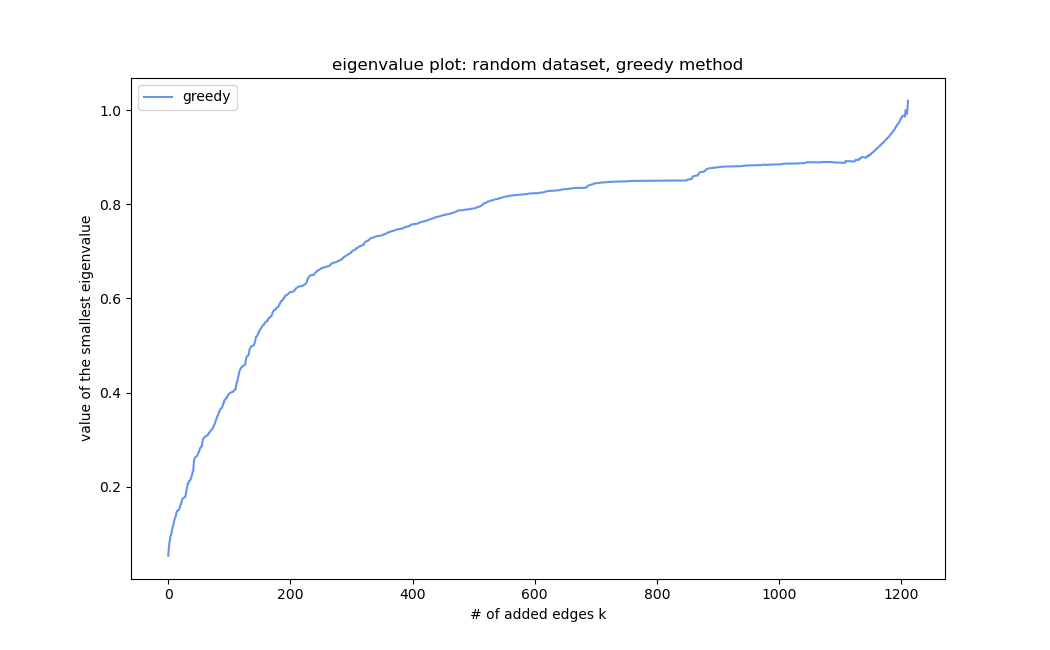
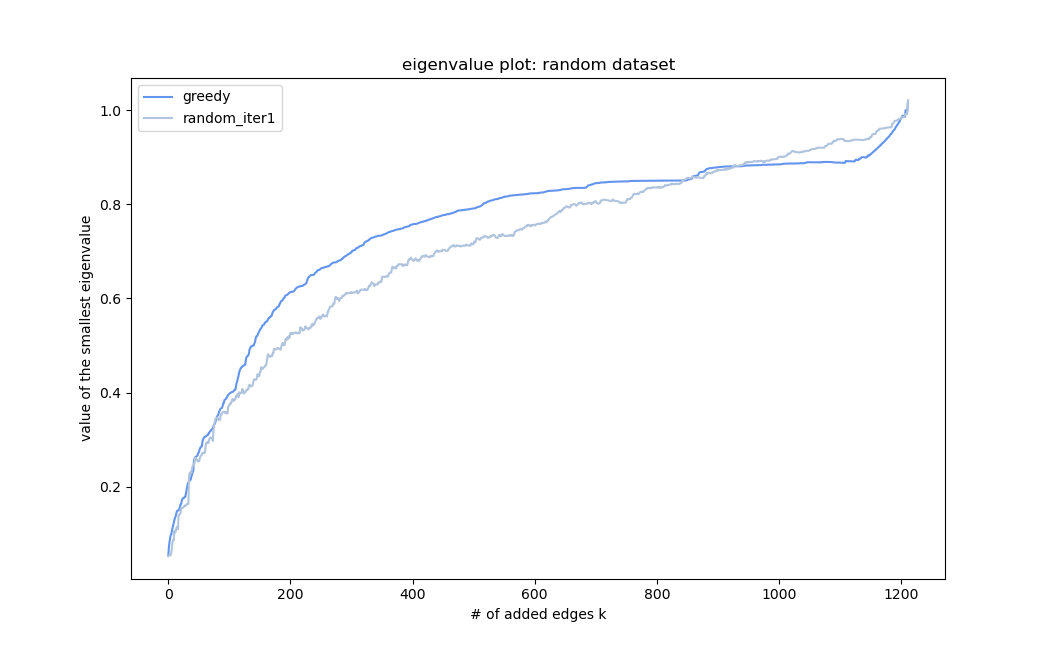
Update result analysis

diff --git a/first-eigen-k-edge/result_analysis.py b/first-eigen-k-edge/result_analysis.py
@@ -5,43 +5,86 @@ import argparse
 from pathlib import Path
 import matplotlib.pyplot as plt
 
+
 module_dur = os.getcwd()
 sys.path.append(module_dur)
 path = Path(module_dur)
 module_path = str(path.parent.absolute())
 sys.path.append(module_path)
 
+
+def result_analysis(args, itr_name=None):
+    if not args.data:
+        output_folder = module_path + '/output/testing'
+    else:
+        output_folder = module_path + '/output/' + args.data
+
+    if not args.method:
+        potential_edge_file = output_folder + '/potential_edges.pkl'
+        spectrum_file_greedy = output_folder + f'/greedy_eigen_val_sequence.pkl'
+        spectrum_file_random = output_folder + f'/random_eigen_val_sequence_{itr_name}.pkl'
+
+        with open(potential_edge_file, 'rb') as f:
+            unused_edges = pickle.load(f)
+
+        with open(spectrum_file_greedy, 'rb') as f:
+            spectrum_greedy = pickle.load(f)
+
+        with open(spectrum_file_random, 'rb') as f:
+            spectrum_random = pickle.load(f)
+
+        k = len(unused_edges)
+        k_value = range(k + 1)
+
+        plt.figure(figsize=(10.5, 6.5))
+        plt.plot(k_value, spectrum_greedy, label=f'greedy', color='cornflowerblue')
+        plt.plot(k_value, spectrum_random, label=f'random_{itr_name}', color='lightsteelblue')
+
+        plt.xlabel("# of added edges k")
+        plt.ylabel("value of the smallest eigenvalue")
+        plt.title(f"eigenvalue plot: {args.data} dataset")
+        plt.legend()
+
+        plt.savefig(output_folder + f'/result_analysis.png')
+        plt.show()
+
+    else:
+        potential_edge_file = output_folder + '/potential_edges.pkl'
+        spectrum_file = output_folder + f'/{args.method}_eigen_val_sequence.pkl'
+
+        if args.method == 'random':
+            spectrum_file = output_folder + f'/{args.method}_eigen_val_sequence_{itr_name}.pkl'
+
+        with open(potential_edge_file, 'rb') as f:
+            unused_edges = pickle.load(f)
+
+        with open(spectrum_file, 'rb') as f:
+            result_spectrum = pickle.load(f)
+
+        k = len(unused_edges)
+        k_value = range(k + 1)
+
+        plt.figure(figsize=(10.5, 6.5))
+        plt.plot(k_value, result_spectrum, label=args.method, color='cornflowerblue')
+
+        plt.xlabel("# of added edges k")
+        plt.ylabel("value of the smallest eigenvalue")
+        plt.title(f"eigenvalue plot: {args.data} dataset, {args.method} method")
+        plt.legend()
+
+        plt.savefig(output_folder + f'/{args.method}_result_analysis.png')
+        plt.show()
+
+
 parser = argparse.ArgumentParser(description='Process...')
 parser.add_argument('--data', type=str, help='graph dataset name')
 parser.add_argument('--method', type=str, help='algorithm used')
-args = parser.parse_args()
+arguments = parser.parse_args()
 
-
-if not args.data:
-    output_folder = module_path + '/output/testing'
+iter_num = 1
+if not arguments.method:
+    result_analysis(args=arguments, itr_name=f'iter{iter_num}')
+elif arguments.method == 'random':
+    result_analysis(args=arguments, itr_name=f'iter{iter_num}')
 else:
-    output_folder = module_path + '/output/' + args.data
-
-potential_edge_file = output_folder + '/potential_edges.pkl'
-spectrum_file = output_folder + '/greedy_eigen_val_sequence.pkl'
-
-with open(potential_edge_file, 'rb') as f:
-    unused_edges = pickle.load(f)
-
-with open(spectrum_file, 'rb') as f:
-    greedy_spectrum = pickle.load(f)
-
-k = len(unused_edges)
-k_value = range(k+1)
-
-
-plt.figure(figsize=(10.5, 6.5))
-plt.plot(k_value, greedy_spectrum, label="greedy", color='cornflowerblue')
-
-plt.xlabel("# of added edges k")
-plt.ylabel("value of the smallest eigenvalue")
-plt.title(f"eigenvalue plot: {args.data} dataset, {args.method} method")
-plt.legend()
-
-plt.savefig(output_folder+'/result_analysis.png')
-plt.show()
+    result_analysis(args=arguments)

diff --git a/first-eigen-k-edge/algorithms.py b/first-eigen-k-edge/algorithms.py
@@ -1,4 +1,3 @@
-import numpy as np
 from utils import *
 from functools import partial
 from multiprocessing import Pool, cpu_count
@@ -63,6 +62,8 @@ def random_method(unused_edges, eigen_val_1st, graph_gcc, output_folder, method)
         new_eigen = calculate_spectrum(temp_graph)
         eigen_val_sequence.append(new_eigen)
 
-    print(eigen_val_sequence)
+    print("saving results...")
+    eigen_val_sequence_path = output_folder + f'/{method}_eigen_val_sequence_iter{iter_num}.pkl'
 
-
+    with open(eigen_val_sequence_path, 'wb') as f:
+        pickle.dump(eigen_val_sequence, f, protocol=pickle.HIGHEST_PROTOCOL)
